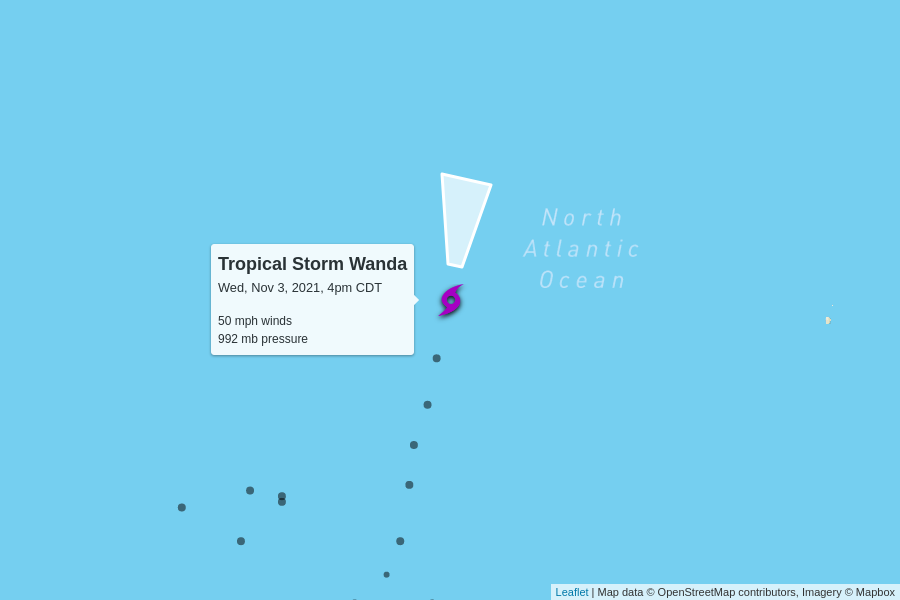
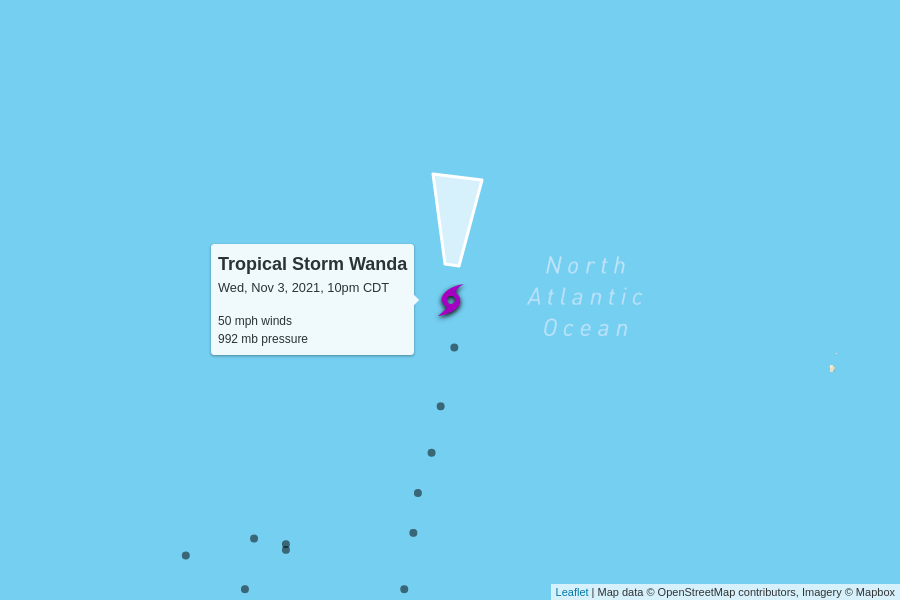
automatic update

diff --git a/docs/index.html b/docs/index.html
@@ -100,7 +100,7 @@
         <td colspan="6" class="storm category-0" >
           <h2>
             Tropical Storm Wanda
-            <p class="updated">last updated <span data-time>2021-11-03T21:00:00.000Z</span></p>
+            <p class="updated">last updated <span data-time>2021-11-04T03:00:00.000Z</span></p>
           </h2>
         </td>
       </tr>
@@ -118,9 +118,9 @@
         <td>50 mph</td>
         <td>992 mb</td>
         <td>
-          10 mph to the north
+          9 mph to the north
           <br/>
-          <span style="display: inline-block; font-size: 1.5em; transform: rotate(10deg);">↑</span>
+          <span style="display: inline-block; font-size: 1.5em; transform: rotate(5deg);">↑</span>
         </td>
         <td><a href="https://raw.githubusercontent.com/mgwalker/atlantic-hurricanes/main/data/csv/AL212021.csv">AL212021.csv</a></td>
         <td><a href="https://www.nhc.noaa.gov/archive/2021/WANDA.shtml?">NHC advisories</a></td>
